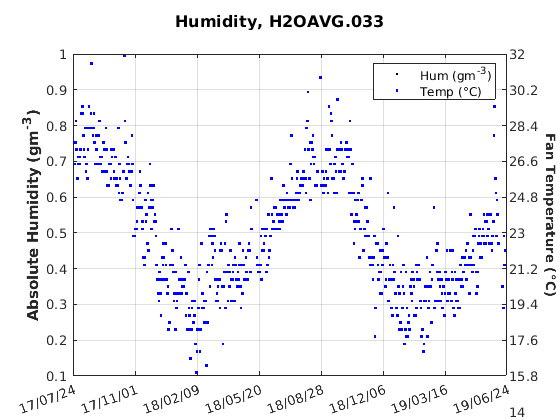
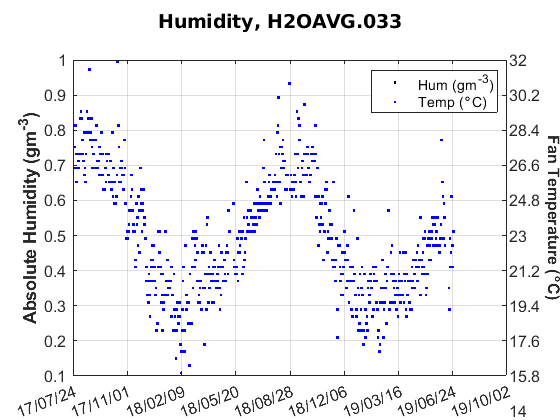
cal_report_033a1.html updated

diff --git a/latex/033/html/cal_report_033a1.html b/latex/033/html/cal_report_033a1.html
@@ -6,7 +6,7 @@
    <!--
 This HTML was auto-generated from MATLAB code.
 To make changes, update the MATLAB code and republish this document.
-      --><title>cal_report_033a1</title><meta name="generator" content="MATLAB 9.4"><link rel="schema.DC" href="http://purl.org/dc/elements/1.1/"><meta name="DC.date" content="2019-06-21"><meta name="DC.source" content="cal_report_033a1.m"><style type="text/css">
+      --><title>cal_report_033a1</title><meta name="generator" content="MATLAB 9.4"><link rel="schema.DC" href="http://purl.org/dc/elements/1.1/"><meta name="DC.date" content="2019-06-26"><meta name="DC.source" content="cal_report_033a1.m"><style type="text/css">
 html,body,div,span,applet,object,iframe,h1,h2,h3,h4,h5,h6,p,blockquote,pre,a,abbr,acronym,address,big,cite,code,del,dfn,em,font,img,ins,kbd,q,s,samp,small,strike,strong,sub,sup,tt,var,b,u,i,center,dl,dt,dd,ol,ul,li,fieldset,form,label,legend,table,caption,tbody,tfoot,thead,tr,th,td{margin:0;padding:0;border:0;outline:0;font-size:100%;vertical-align:baseline;background:transparent}body{line-height:1}ol,ul{list-style:none}blockquote,q{quotes:none}blockquote:before,blockquote:after,q:before,q:after{content:'';content:none}:focus{outine:0}ins{text-decoration:none}del{text-decoration:line-through}table{border-collapse:collapse;border-spacing:0}
 
 html { min-height:100%; margin-bottom:1px; }
@@ -83,33 +83,20 @@ mkdir(Cal.dir_figs);
       fprintf(<span class="string">'Error: %s\n Initializing data for Brewer %s\n'</span>,exception.message,Cal.brw_name{Cal.n_inst});
       save(Cal.file_save);
 <span class="keyword">end</span>
-</pre><pre class="codeoutput">
-ans =
-
+</pre><pre class="codeoutput">ans =
   logical
-
    1
-
-
 ans =
-
   1&times;1 cell array
-
     {'IZO#185'}
-
-
 ans =
-
-  21&times;9 cell array
-
+  20&times;9 cell array
   Columns 1 through 5
-
     {'TSK#005'}    {[  5]}    {[2]}    {[0]}    {'005'}
     {'IOS#017'}    {[ 17]}    {[2]}    {[0]}    {'017'}
     {'SCO#033'}    {[ 33]}    {[2]}    {[0]}    {'033'}
     {'MAD#070'}    {[ 70]}    {[4]}    {[0]}    {'070'}
     {'UK_#075'}    {[ 75]}    {[4]}    {[0]}    {'075'}
-    {'POR#102'}    {[102]}    {[4]}    {[0]}    {'102'}
     {'MUR#117'}    {[117]}    {[4]}    {[0]}    {'117'}
     {'UK_#126'}    {[126]}    {[4]}    {[0]}    {'126'}
     {'ARE#150'}    {[150]}    {[3]}    {[0]}    {'150'}
@@ -125,31 +112,27 @@ ans =
     {'TAM#201'}    {[201]}    {[3]}    {[0]}    {'201'}
     {'DNK#202'}    {[202]}    {[3]}    {[0]}    {'202'}
     {'DNK#228'}    {[228]}    {[3]}    {[0]}    {'228'}
-
   Columns 6 through 9
-
     {'..\005\ICF15117&#8230;'}    {'..\005\ICF15117&#8230;'}    {'1838'}    {'1838'}
-    {'..\017\ICF15315&#8230;'}    {'..\017\ICF15315&#8230;'}    {'2170'}    {'2097'}
+    {'..\017\ICF14919&#8230;'}    {'..\017\ICF14919&#8230;'}    {'1680'}    {'1680'}
     {'..\033\ICF15617&#8230;'}    {'..\033\IOS15617&#8230;'}    {'2325'}    {'2325'}
     {'..\070\ICF15617&#8230;'}    {'..\070\IOS15617&#8230;'}    {'1685'}    {'1685'}
     {'..\075\ICF15017&#8230;'}    {'..\075\ICF15017&#8230;'}    {'1714'}    {'1714'}
-    {'..\102\ICF15517&#8230;'}    {'..\102\ICF15517&#8230;'}    {'2718'}    {'2718'}
     {'..\117\ICF15517&#8230;'}    {'..\117\IOS15517&#8230;'}    {'1620'}    {'1620'}
-    {'..\126\icf15517&#8230;'}    {'..\126\ICF15517&#8230;'}    {'1710'}    {'1710'}
+    {'..\126\icf15517&#8230;'}    {'..\126\ICF17419&#8230;'}    {'1710'}    {'1710'}
     {'..\150\ICF15617&#8230;'}    {'..\150\ICF15617&#8230;'}    {'0322'}    {'0322'}
     {'..\151\ICF15317&#8230;'}    {'..\151\IOS15317&#8230;'}    {'1880'}    {'1880'}
     {'..\158\ICF21218&#8230;'}    {'..\158\ICF21218&#8230;'}    {'0558'}    {'0558'}
-    {'..\163\ICF20118&#8230;'}    {'..\163\ICF20118&#8230;'}    {'0274'}    {'0274'}
-    {'..\166\ICF15217&#8230;'}    {'..\166\IOS15717&#8230;'}    {'1955'}    {'1955'}
+    {'..\163\ICF23318&#8230;'}    {'..\163\ICF23318&#8230;'}    {'0274'}    {'0274'}
+    {'..\166\ICF15217&#8230;'}    {'..\166\ICF17419&#8230;'}    {'1955'}    {'1955'}
     {'..\172\ICF15117&#8230;'}    {'..\172\ICF15117&#8230;'}    {'0444'}    {'0444'}
     {'..\174\ICF20718&#8230;'}    {'..\174\ICF20718&#8230;'}    {'0605'}    {'0605'}
-    {'..\185\config18&#8230;'}    {'..\185\config18&#8230;'}    {'0365'}    {'0363'}
+    {'..\185\config18&#8230;'}    {'..\185\config18&#8230;'}    {'0365'}    {'0367'}
     {'..\186\ICF15317&#8230;'}    {'..\186\IOS15317&#8230;'}    {'0315'}    {'0315'}
     {'..\190\ICF11419&#8230;'}    {'..\190\ICF11419&#8230;'}    {'0410'}    {'0410'}
     {'..\201\ICF14315&#8230;'}    {'..\201\ICF14315&#8230;'}    {'0320'}    {'0320'}
     {'..\202\ICF15017&#8230;'}    {'..\202\ICF15017&#8230;'}    {'0270'}    {'0270'}
-    {'..\228\ICF15017&#8230;'}    {'..\228\ICF15017&#8230;'}    {'0242'}    {'0242'}
-
+    {'..\228\ICF15017&#8230;'}    {'..\228\ICF17319&#8230;'}    {'0242'}    {'0242'}
 </pre><h2 id="3">Brewer setup</h2><pre class="codeinput">Station.OSC=680;
 Station.name=<span class="string">''</span>;
 Station.lat=67;
@@ -249,27 +232,17 @@ save(Cal.file_save,<span class="string">'-APPEND'</span>,<span class="string">'a
 List of arguments given default values:
    'path_to_file'    defaults to .
 --------------------------------------
-
 RseisAVG =
-
-        2329
-
-
+        2324
 RcincoAVG =
-
-        4351
-
+        4341
 
   Columns 1 through 5
-
     'SLR6  orig'    'Calc. AVG'    'SLR5  orig'    'Calculated'    'DT  orig'
-    [      2325]    [     2329]    [       NaN]    [      4351]    [     NaN]
-
+    [      2325]    [     2324]    [       NaN]    [      4341]    [     NaN]
   Column 6
-
     'Calculated'
     [     4e-08]
-
 
 </pre><img vspace="5" hspace="5" src="cal_report_033a1_01.png" alt=""> <img vspace="5" hspace="5" src="cal_report_033a1_02.png" alt=""> <img vspace="5" hspace="5" src="cal_report_033a1_03.png" alt=""> <img vspace="5" hspace="5" src="cal_report_033a1_04.png" alt=""> <img vspace="5" hspace="5" src="cal_report_033a1_05.png" alt=""> <img vspace="5" hspace="5" src="cal_report_033a1_06.png" alt=""> <img vspace="5" hspace="5" src="cal_report_033a1_07.png" alt=""> <img vspace="5" hspace="5" src="cal_report_033a1_08.png" alt=""> <img vspace="5" hspace="5" src="cal_report_033a1_09.png" alt=""> <img vspace="5" hspace="5" src="cal_report_033a1_10.png" alt=""> <pre class="codeinput">ix=sort(double(findobj(<span class="string">'Type'</span>,<span class="string">'figure'</span>)));
 printfiles_report(ix',Cal.dir_figs);
@@ -340,7 +313,7 @@ close <span class="string">all</span>
 </pre><h2 id="16">CI REPORT</h2><pre class="codeinput">close <span class="string">all</span>; br=sprintf(<span class="string">'%03d'</span>,Cal.brw(Cal.n_inst));
 <span class="keyword">try</span>
     [LRatPFHT Error]=analyzeCI(fullfile(Cal.path_root,[<span class="string">'bdata'</span>,br],[<span class="string">'CI*.'</span>,br]),<span class="keyword">...</span>
-                           <span class="string">'CI16919.033'</span>,<span class="keyword">...</span>
+                           <span class="string">'CI16819.033'</span>,<span class="keyword">...</span>
                           <span class="string">'depuracion'</span>,1,<span class="string">'outlier_flag'</span>,0,<span class="keyword">...</span>
                           <span class="string">'date_range'</span>,datenum(Cal.Date.cal_year,1,[168 180]));
 <span class="keyword">catch</span> exception
@@ -568,7 +541,7 @@ close all
 close all; br=sprintf('%03d',Cal.brw(Cal.n_inst));
 try
     [LRatPFHT Error]=analyzeCI(fullfile(Cal.path_root,['bdata',br],['CI*.',br]),...
-                           'CI16919.033',...
+                           'CI16819.033',...
                           'depuracion',1,'outlier_flag',0,...
                           'date_range',datenum(Cal.Date.cal_year,1,[168 180]));
 catch exception
